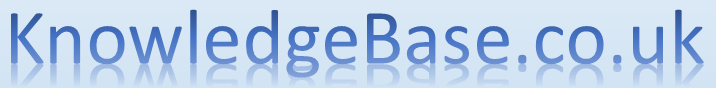
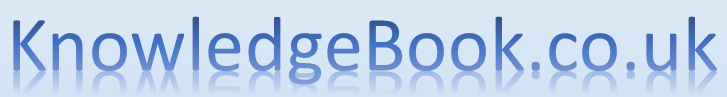
Finish fixing rebrand

Changed region(s): [[0.0, 0.1136, 1.0, 0.9091]]

diff --git a/src/App.css b/src/App.css
@@ -4,7 +4,7 @@
 }
 
 .App-logo {
-  height: 6vmax;
+  height: 4vmax;
   width: 30vmax;
   pointer-events: none;
   padding-left: 1vmax;
